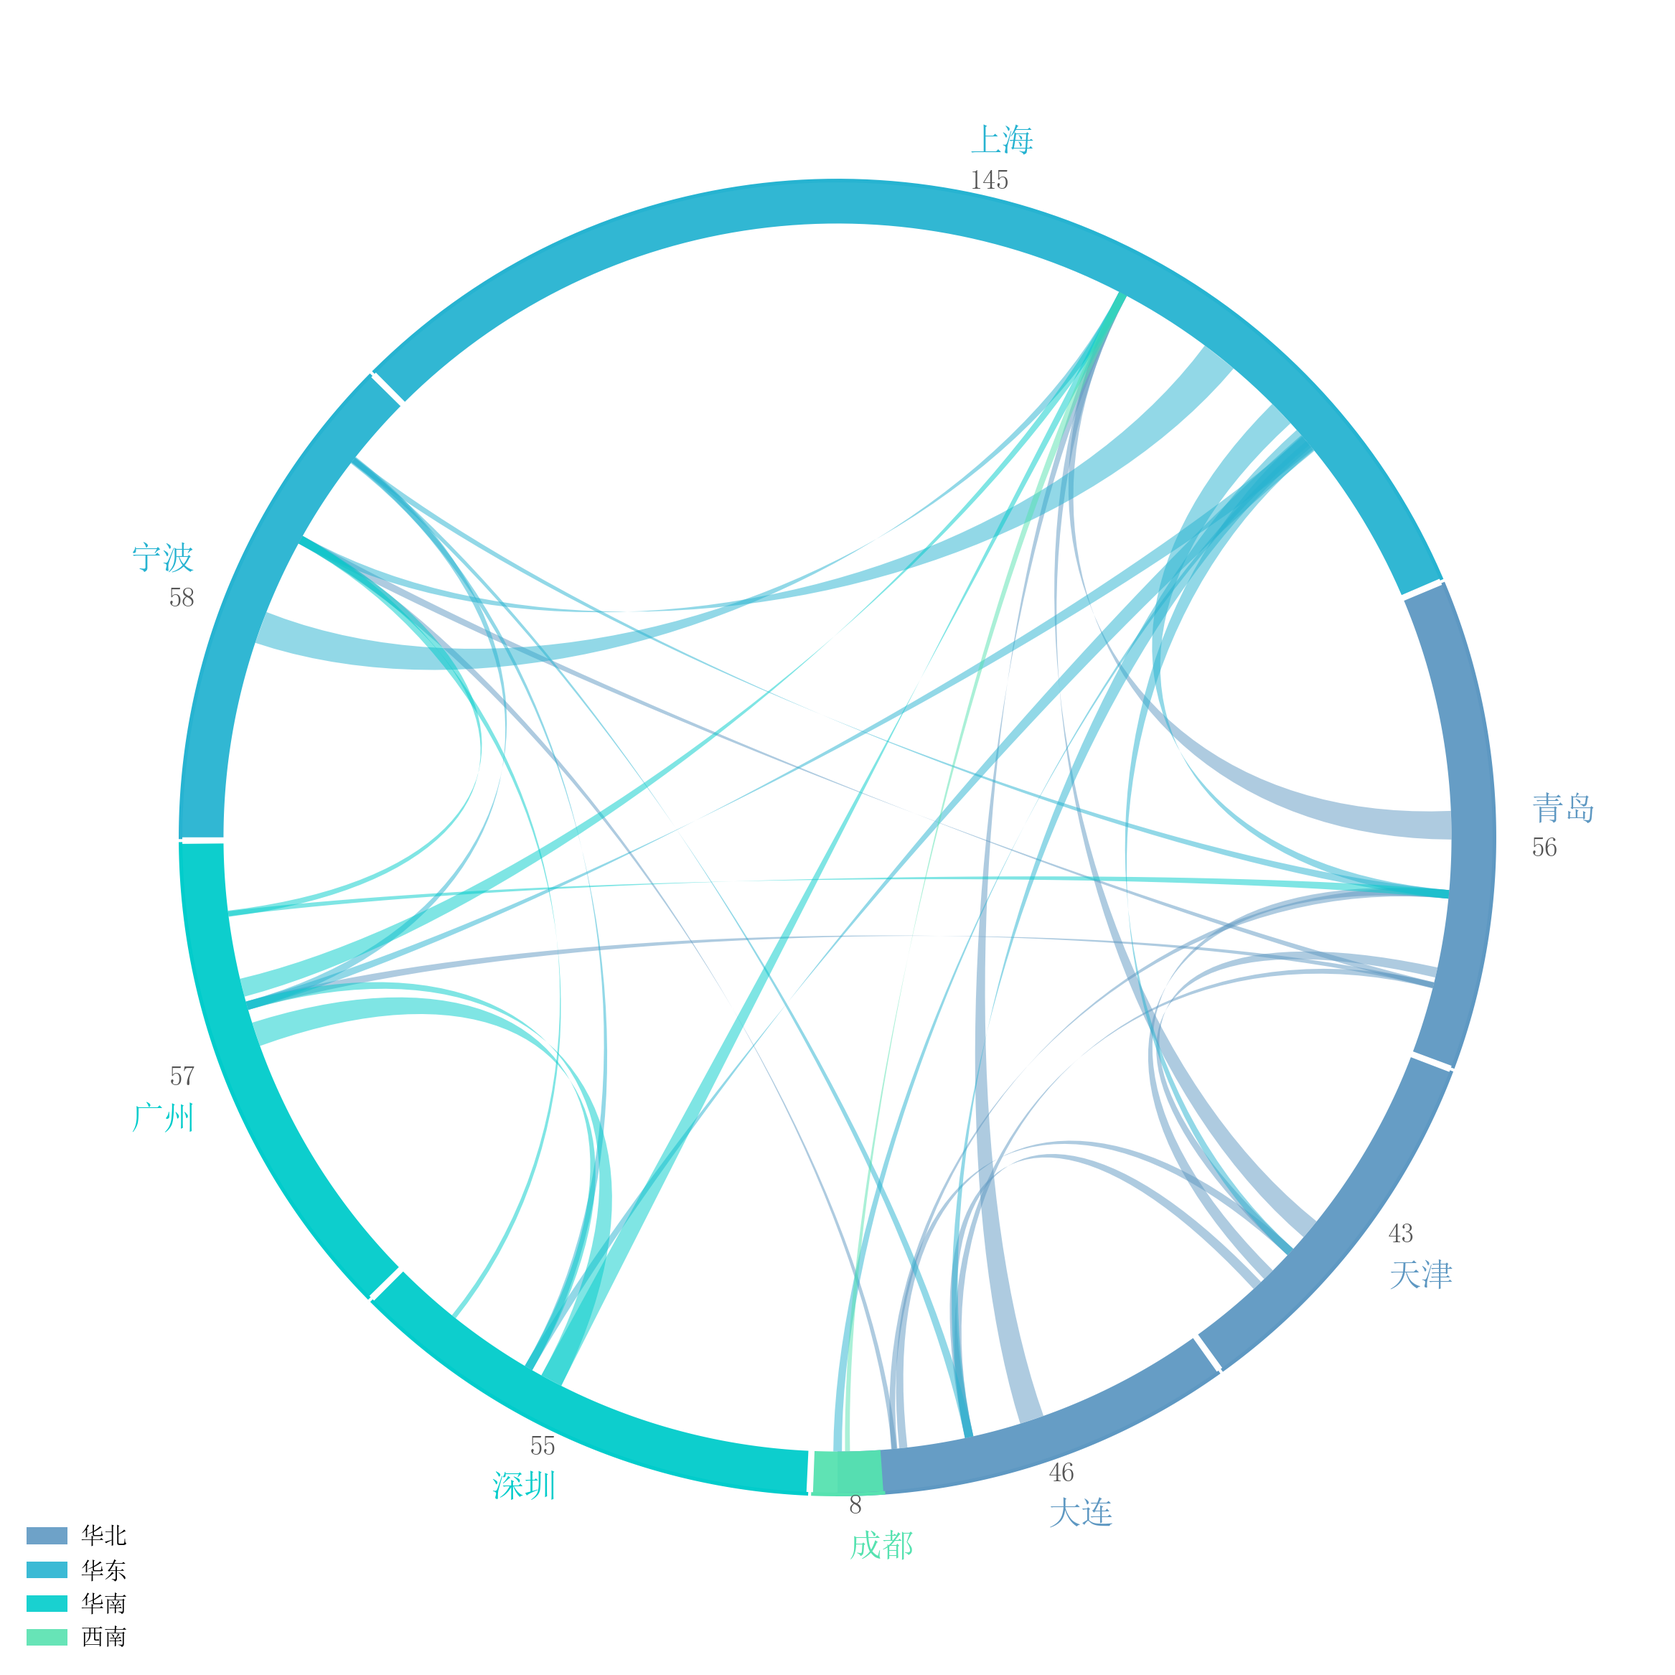
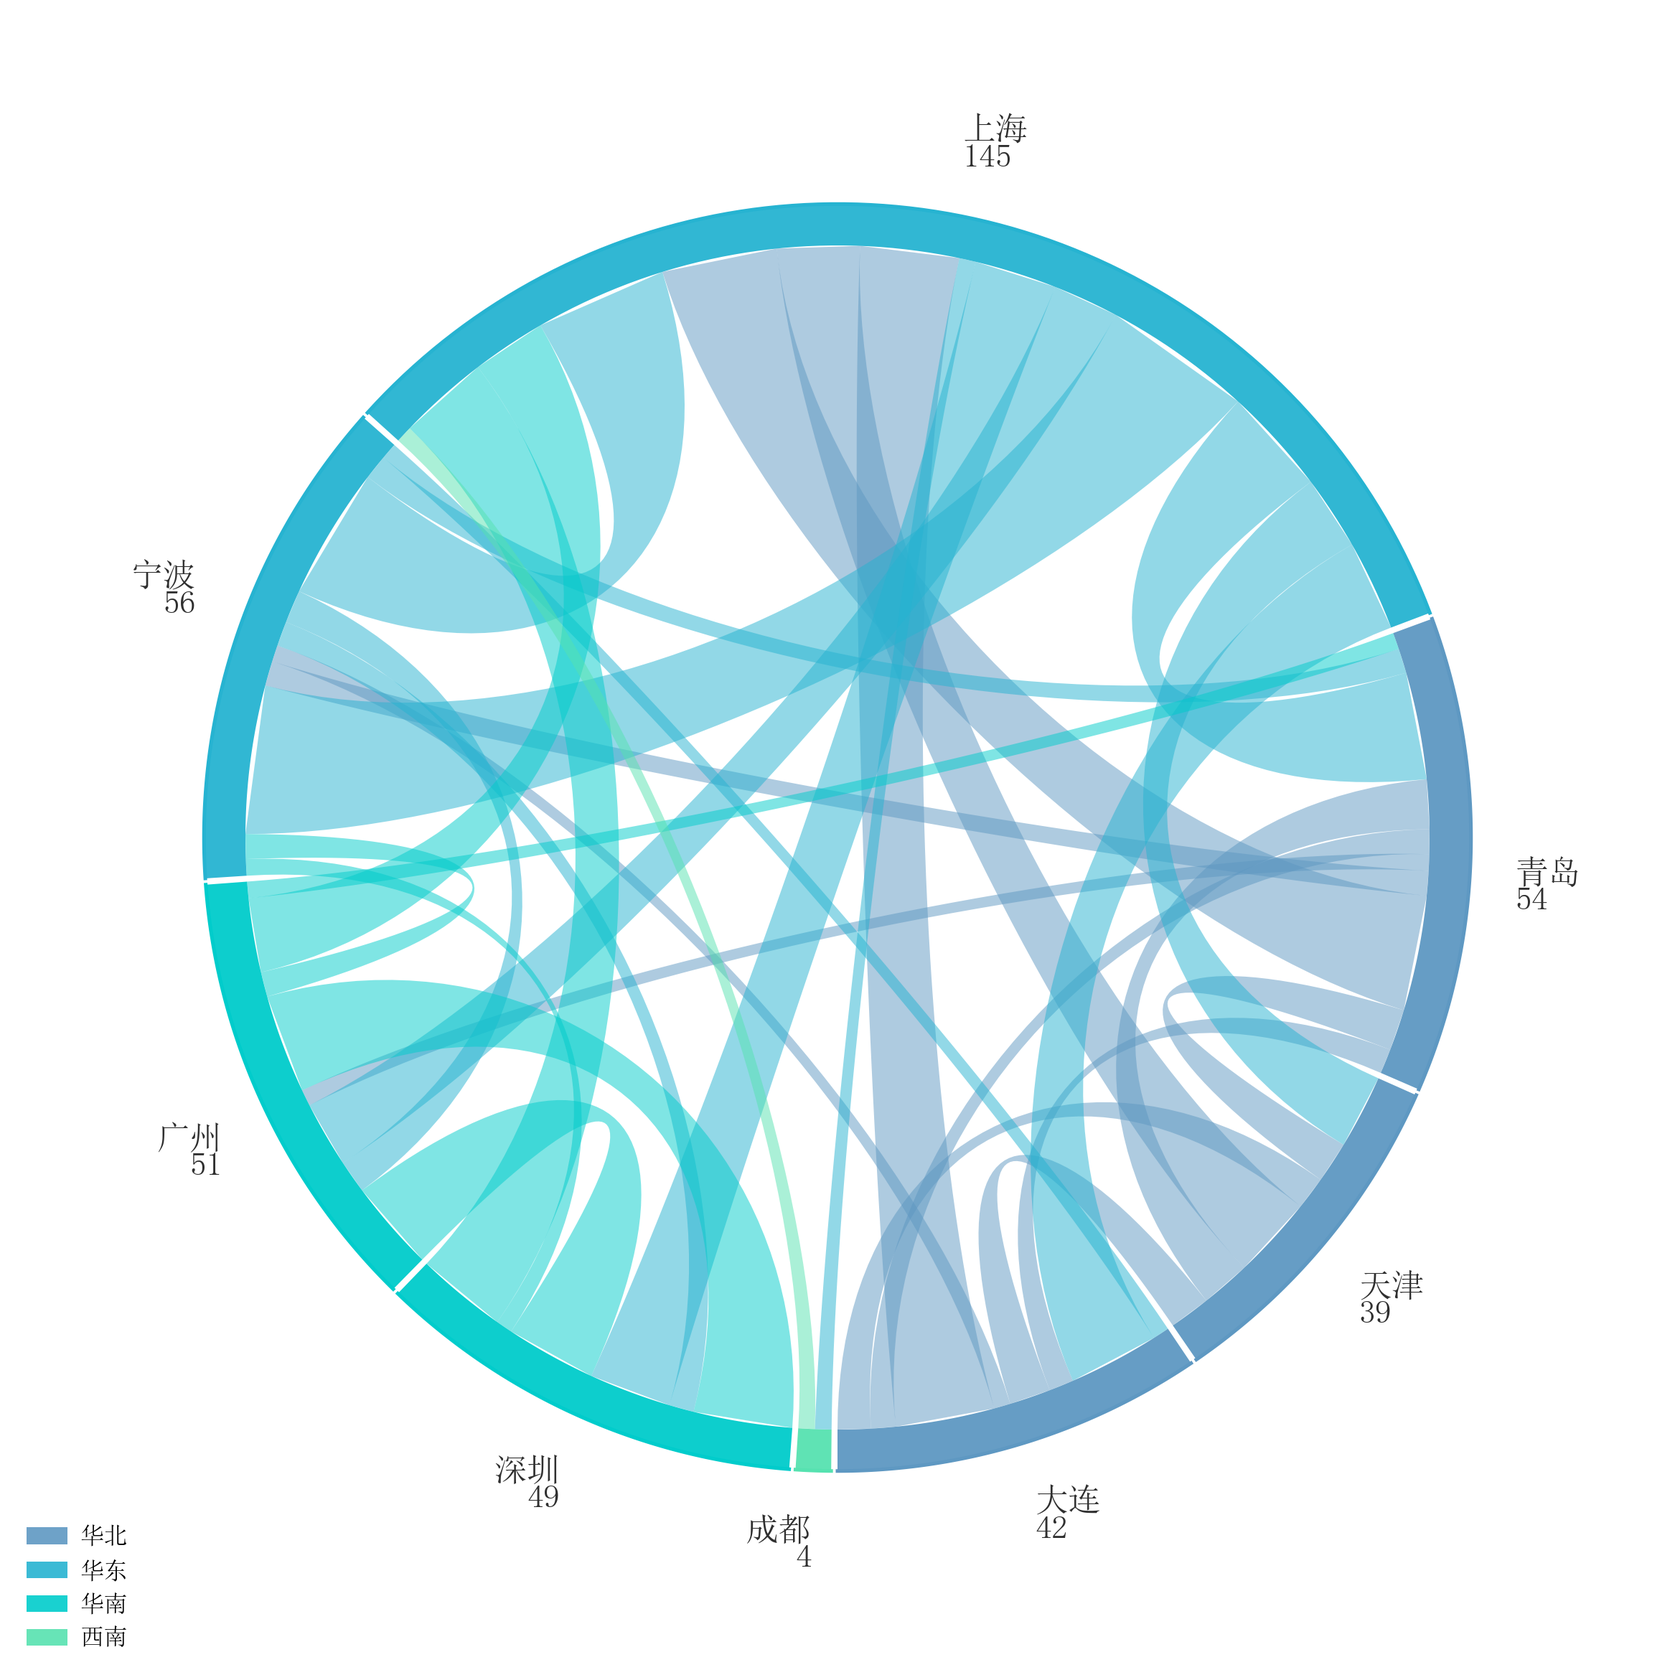
fix(chord): conserve visible flow geometry

diff --git a/sciplot/_plots/advanced.py b/sciplot/_plots/advanced.py
@@ -708,6 +708,84 @@ def plot_packed_bubble(
     return PlotResult(fig, ax, metadata={"venue": venue, "palette": palette})
 
 
+def _compute_chord_geometry(
+    matrix: np.ndarray,
+    min_flow: float,
+    gap: float,
+) -> Tuple[
+    np.ndarray,
+    np.ndarray,
+    np.ndarray,
+    np.ndarray,
+    Dict[Tuple[int, int], Tuple[float, float]],
+    Dict[Tuple[int, int], Tuple[float, float]],
+]:
+    """计算守恒的 Chord 弧段与有向流槽位。"""
+    visible = np.asarray(matrix, dtype=float).copy()
+    np.fill_diagonal(visible, 0.0)
+    visible[visible < min_flow] = 0.0
+
+    n = visible.shape[0]
+    total_gap = gap * n
+    if total_gap >= 2 * np.pi:
+        raise ValueError(
+            "gap 过大：所有节点间隙之和必须小于 2π，"
+            f"当前 n*gap={total_gap:.3f}"
+        )
+
+    out_totals = visible.sum(axis=1)
+    in_totals = visible.sum(axis=0)
+    totals = out_totals + in_totals
+    total_flow = float(totals.sum())
+    if total_flow <= 0:
+        raise ValueError("matrix 总流量为零或 min_flow 过滤后无可见流量，无法绘制弦图")
+
+    available_angle = 2 * np.pi - total_gap
+    arc_lengths = totals / total_flow * available_angle
+    arc_starts = np.empty(n, dtype=float)
+    arc_ends = np.empty(n, dtype=float)
+    angle = -np.pi / 2
+    for i in range(n):
+        arc_starts[i] = angle
+        arc_ends[i] = angle + float(arc_lengths[i])
+        angle = arc_ends[i] + gap
+
+    # 每个节点的弧段按“出流槽在前、入流槽在后”完整切分。
+    # 同一条有向流在源端和目标端都占与 flow 成比例的真实角宽。
+    scales = np.divide(
+        arc_lengths,
+        totals,
+        out=np.zeros_like(arc_lengths),
+        where=totals > 0,
+    )
+    source_slots: Dict[Tuple[int, int], Tuple[float, float]] = {}
+    target_slots: Dict[Tuple[int, int], Tuple[float, float]] = {}
+
+    source_cursor = arc_starts.copy()
+    for i in range(n):
+        for j in range(n):
+            flow = float(visible[i, j])
+            if flow <= 0:
+                continue
+            start = float(source_cursor[i])
+            end = start + flow * float(scales[i])
+            source_slots[(i, j)] = (start, end)
+            source_cursor[i] = end
+
+    target_cursor = arc_starts + out_totals * scales
+    for j in range(n):
+        for i in range(n):
+            flow = float(visible[i, j])
+            if flow <= 0:
+                continue
+            start = float(target_cursor[j])
+            end = start + flow * float(scales[j])
+            target_slots[(i, j)] = (start, end)
+            target_cursor[j] = end
+
+    return visible, totals, arc_starts, arc_ends, source_slots, target_slots
+
+
 def plot_chord(
     matrix: np.ndarray,
     labels: Optional[List[str]] = None,
@@ -726,19 +804,19 @@ def plot_chord(
     """
     绘制弦图（Chord Diagram，节点间流量/共现关系）
 
-    节点沿圆周排列，弧长编码节点总流量；节点间弦（渐变宽度多边形）
-    宽度编码流量、颜色取自源节点，源端宽而目标端收窄，
-    适合展示转移矩阵、共现关系、资源流向。
+    节点沿圆周排列，弧长编码过滤后的可见总流量；节点间弦在源端与目标端
+    都按真实流量占用对应弧段槽位，颜色取自源节点。适合展示转移矩阵、
+    共现关系、资源流向。
 
     参数:
         matrix     : 流量/共现矩阵 (n, n)，要求非负
         labels     : 节点标签（等长）；None 则用序号
         width      : 外圈弧宽（占单位半径比例），默认 0.07
-        gap        : 弧段间最小间隙（弧度），默认 0.01
+        gap        : 每个节点弧段后的固定间隙（弧度），默认 0.01
         alpha      : 弦透明度
-        min_flow   : 最小流量阈值，低于该值的弦不绘制（过滤噪声）
+        min_flow   : 最小流量阈值；低于该值的流从弦、外圈总量和显示数值中一并过滤
         color_by   : 节点分类标签（等长）；提供时按类别着色并生成图例
-        show_values: 是否在弧外显示各节点总量
+        show_values: 是否在弧外显示各节点过滤后的可见总量
 
     示例:
         >>> # 城市间迁移流量（按区域分组着色）
@@ -769,8 +847,10 @@ def plot_chord(
         labels = [str(i + 1) for i in range(n)]
     if not 0 < width < 1:
         raise ValueError(f"width 必须在 (0, 1) 范围内，实际值: {width!r}")
-    if min_flow < 0:
+    if not np.isfinite(min_flow) or min_flow < 0:
         raise ValueError(f"min_flow 必须为非负数，实际值: {min_flow!r}")
+    if not np.isfinite(gap) or gap < 0:
+        raise ValueError(f"gap 必须为非负有限数（弧度），实际值: {gap!r}")
     if color_by is not None:
         if len(color_by) != n:
             raise ValueError(
@@ -796,25 +876,14 @@ def plot_chord(
         node_colors = [cycle_color(colors, i) for i in range(n)]
         categorical_legend = None
 
-    # 节点总流量（行 + 列）
-    totals = mat.sum(axis=1) + mat.sum(axis=0)
-    total_flow = float(totals.sum())
-    if total_flow <= 0:
-        raise ValueError("matrix 总流量为零，无法绘制弦图")
-
-    # 弧段角度分配（从 -90° 顺时针）
-    arc_starts: List[float] = []
-    arc_ends: List[float] = []
-    angle = -np.pi / 2
-    for i in range(n):
-        frac = float(totals[i]) / total_flow
-        arc_len = frac * 2 * np.pi
-        # 预留 gap
-        if i > 0:
-            angle += gap
-        arc_starts.append(angle)
-        arc_ends.append(angle + arc_len)
-        angle += arc_len
+    (
+        visible,
+        totals,
+        arc_starts,
+        arc_ends,
+        source_slots,
+        target_slots,
+    ) = _compute_chord_geometry(mat, min_flow=min_flow, gap=gap)
 
     # ── 外圈弧段 ──
     for i in range(n):
@@ -829,11 +898,7 @@ def plot_chord(
         ax.plot(r_out * np.cos(seg), r_out * np.sin(seg),
                 color=color, linewidth=1.2)
 
-    # ── 弦（渐变宽度多边形：源端宽编码流量，目标端收窄） ──
-    max_flow = float(mat.max()) if mat.size else 1.0
-    if max_flow <= 0:
-        max_flow = 1.0
-
+    # ── 弦：源端与目标端均按真实可见流量占用弧段槽位 ──
     def _bezier_curve(
         p0: Tuple[float, float], p3: Tuple[float, float], n_pts: int = 48
     ) -> Tuple[np.ndarray, np.ndarray]:
@@ -848,21 +913,17 @@ def plot_chord(
         return bx, by
 
     for i in range(n):
-        row_total = float(mat[i].sum())
         for j in range(n):
-            flow = float(mat[i, j])
-            if flow <= 0 or i == j or flow < min_flow:
+            flow = float(visible[i, j])
+            if flow <= 0:
                 continue
-            # 源端角度：按该流量占 i 行总出量的比例定位在弧段内
-            src_frac = flow / row_total if row_total > 0 else 0.5
-            src_theta = arc_starts[i] + (arc_ends[i] - arc_starts[i]) * min(0.85, max(0.15, src_frac))
-            tgt_theta = arc_starts[j] + (arc_ends[j] - arc_starts[j]) * 0.35
-            # 源端宽度 ∝ 流量，目标端固定窄宽（视觉层次）
-            half_w = max(0.004, flow / max_flow * 0.03)
-            p0a = polar_to_cart(src_theta - half_w, 1.0)
-            p0b = polar_to_cart(src_theta + half_w, 1.0)
-            p3a = polar_to_cart(tgt_theta - 0.007, 1.0)
-            p3b = polar_to_cart(tgt_theta + 0.007, 1.0)
+            src_start, src_end = source_slots[(i, j)]
+            tgt_start, tgt_end = target_slots[(i, j)]
+            # 交叉连接两端边界，可在圆内形成无扭结的带状流。
+            p0a = polar_to_cart(src_start, 1.0)
+            p0b = polar_to_cart(src_end, 1.0)
+            p3a = polar_to_cart(tgt_end, 1.0)
+            p3b = polar_to_cart(tgt_start, 1.0)
             bx_top, by_top = _bezier_curve(p0a, p3a)
             bx_bot, by_bot = _bezier_curve(p0b, p3b)
             poly_x = np.concatenate([bx_top, bx_bot[::-1]])
@@ -871,19 +932,22 @@ def plot_chord(
                     edgecolor="none", zorder=2)
 
     # ── 标签与数值 ──
-    label_r = 1.0 + width + 0.06
-    fontsize = max(7, plt.rcParams.get("font.size", 9) - 1)
+    label_r = 1.0 + width + 0.075
+    fontsize = max(7.0, float(plt.rcParams.get("font.size", 9)) - 1.0)
     for i in range(n):
         mid = (arc_starts[i] + arc_ends[i]) / 2
         x, y = polar_to_cart(mid, label_r)
         ha = "left" if np.cos(mid) >= 0 else "right"
         va = "bottom" if np.sin(mid) >= 0 else "top"
-        ax.text(x, y, labels[i], ha=ha, va=va, fontsize=fontsize,
-                color=node_colors[i], fontweight="bold")
-        if show_values:
-            ax.text(x, y - (0.06 if np.sin(mid) >= 0 else -0.06),
-                    f"{totals[i]:.0f}", ha=ha, va=va,
-                    fontsize=max(6, fontsize - 2), color="#555555")
+        label_text = (
+            f"{labels[i]}\n{totals[i]:.0f}"
+            if show_values
+            else str(labels[i])
+        )
+        ax.text(
+            x, y, label_text, ha=ha, va=va, fontsize=fontsize,
+            color="#2F2F2F", fontweight="bold", linespacing=0.95,
+        )
 
     # ── 分类图例 ──
     if categorical_legend is not None:
@@ -895,8 +959,8 @@ def plot_chord(
         ]
         ax.legend(handles=handles, loc="lower left", frameon=False, fontsize=8)
 
-    ax.set_xlim(-1.35, 1.35)
-    ax.set_ylim(-1.35, 1.35)
+    ax.set_xlim(-1.40, 1.40)
+    ax.set_ylim(-1.40, 1.40)
     ax.set_aspect("equal")
     ax.set_axis_off()
     if title:

diff --git a/tests/unit/test_chord.py b/tests/unit/test_chord.py
@@ -8,6 +8,7 @@ import numpy as np
 import pytest
 
 import sciplot as sp
+from sciplot._plots.advanced import _compute_chord_geometry
 
 
 @pytest.fixture()
@@ -43,8 +44,8 @@ def test_chord_labels(chord_matrix, cleanup_figures):
 def test_chord_show_values(chord_matrix, cleanup_figures):
     result = sp.plot_chord(chord_matrix, labels=["A", "B", "C", "D"], show_values=True)
     texts = [t.get_text() for t in result.ax.texts]
-    # 节点 A 双向总量 = (12+5+3) * 2 = 40
-    assert "40" in texts
+    # 节点 A 双向总量 = (12+5+3) * 2 = 40；数值与标签组成稳定双行块。
+    assert "A\n40" in texts
 
 
 def test_chord_auto_labels(chord_matrix, cleanup_figures):
@@ -104,6 +105,69 @@ def test_chord_min_flow_filter(chord_matrix, cleanup_figures):
 def test_chord_bad_min_flow_raises(chord_matrix, cleanup_figures):
     with pytest.raises(ValueError, match="min_flow"):
         sp.plot_chord(chord_matrix, min_flow=-1.0)
+    with pytest.raises(ValueError, match="min_flow"):
+        sp.plot_chord(chord_matrix, min_flow=np.nan)
+
+
+def test_chord_bad_gap_raises(chord_matrix, cleanup_figures):
+    with pytest.raises(ValueError, match="gap"):
+        sp.plot_chord(chord_matrix, gap=-0.1)
+    with pytest.raises(ValueError, match="gap"):
+        sp.plot_chord(chord_matrix, gap=np.inf)
+    with pytest.raises(ValueError, match="gap 过大"):
+        sp.plot_chord(chord_matrix, gap=np.pi)
+
+
+def test_chord_geometry_closes_exactly_one_circle(chord_matrix):
+    """节点弧段 + 全部 gap 必须恰好占一圈，不能越过 2π 再重叠。"""
+    gap = 0.03
+    _, _, starts, ends, _, _ = _compute_chord_geometry(
+        chord_matrix, min_flow=0.0, gap=gap
+    )
+    arc_total = float(np.sum(ends - starts))
+    assert arc_total + len(starts) * gap == pytest.approx(2 * np.pi)
+    assert ends[-1] + gap == pytest.approx(starts[0] + 2 * np.pi)
+
+
+def test_chord_flow_slots_conserve_visible_flow(chord_matrix):
+    """过滤后的每条流在源/目标两端都必须占用与其数值成比例的真实槽位。"""
+    visible, totals, starts, ends, source_slots, target_slots = _compute_chord_geometry(
+        chord_matrix, min_flow=6.0, gap=0.02
+    )
+    spans = ends - starts
+
+    for node in range(len(totals)):
+        if totals[node] <= 0:
+            continue
+        scale = spans[node] / totals[node]
+        source_width = sum(
+            b - a for (i, _), (a, b) in source_slots.items() if i == node
+        )
+        target_width = sum(
+            b - a for (_, j), (a, b) in target_slots.items() if j == node
+        )
+        assert source_width + target_width == pytest.approx(spans[node])
+
+        for (i, j), (a, b) in source_slots.items():
+            if i == node:
+                assert b - a == pytest.approx(float(visible[i, j]) * scale)
+        for (i, j), (a, b) in target_slots.items():
+            if j == node:
+                assert b - a == pytest.approx(float(visible[i, j]) * scale)
+
+
+def test_chord_min_flow_updates_visible_totals(chord_matrix, cleanup_figures):
+    """show_values 应与实际绘制的过滤后流量一致，而不是继续显示被过滤流。"""
+    result = sp.plot_chord(
+        chord_matrix,
+        labels=["A", "B", "C", "D"],
+        min_flow=10.0,
+        show_values=True,
+    )
+    texts = [t.get_text() for t in result.ax.texts]
+    # 仅 0↔1 的 12 保留，因此 A/B 可见双向总量均为 24，C/D 为 0。
+    assert "A\n24" in texts and "B\n24" in texts
+    assert "C\n0" in texts and "D\n0" in texts
 
 
 def test_chord_color_by_mismatch_raises(chord_matrix, cleanup_figures):

diff --git a/.claude/skills/sciplot/SKILL.md b/.claude/skills/sciplot/SKILL.md
@@ -5,7 +5,7 @@ description: >-
   统计图、多面板图、期刊投稿图，或需要优化现有 matplotlib 科研图时触发；也适用于
   “这些数据怎么可视化”“把图做得像顶刊”“提升论文图质量”等未指定图型的任务。
   优先使用项目内 sciplot API 完成静态科研可视化；明确要求交互式网页图、地图或动画时不触发。
-version: 2.0.2
+version: 2.0.3
 author: rippleshe
 user-invocable: true
 allowed-tools: "Read Write Edit Bash Glob Grep"
@@ -162,7 +162,7 @@ fig, axes = sp.figure_panels(2, 2, venue="nature", panel_labels=True)
 - **箱线/小提琴/雨云**：样本不大时尽量展示原始点；不要让小提琴形状掩盖 n 很小的事实。
 - **热力图**：色图必须匹配语义；相关矩阵优先以 0 为中心的发散色；标数字时保证对比度。
 - **雷达**：只用于少量同尺度维度；多组填充 alpha 要低，轮廓承担主要比较。
-- **Sankey/Alluvial**：流带宽度是真实量；颜色应跟随源/类别语义，流多时先过滤视觉噪音。
+- **Sankey/Alluvial/Chord**：流带宽度必须是真实量并在节点两端守恒；颜色应跟随源/类别语义，流多时先过滤视觉噪音。
 - **Treemap/Sunburst**：面积/角度承担数值，颜色用于层级或分组，不再额外编码无关变量。
 - **网络图**：先减少边噪音和标签密度，再谈配色；3D 标签要在最终视角投影后检查屏幕空间重叠，社区结构应该一眼可辨。
 - **3D**：只有数据本身存在第三空间维度或曲面结构时使用，普通分类比较不要 3D。

diff --git a/CHANGELOG.md b/CHANGELOG.md
@@ -33,6 +33,9 @@
 - 修复 `plot_network3d()` 将标签直接贴在 3D 节点中心导致透视投影后集中重叠的问题；
   现在先固定最终视角，再将 top-N 节点投影到屏幕平面并按 renderer bbox 避让，同时降低边线默认视觉权重，
   使节点、标签和社区层级在静态科研图中更清楚。
+- 修复 `plot_chord()` 的两处数据编码错误：节点弧长原先先占满 `2π` 再额外加入 `gap`，会使圆周超出一圈；
+  弦端点也未按累计流量分槽，多条流会挤在固定位置。现在基于 `min_flow` 过滤后的可见流严格扣除全部 gap，
+  并在源端/目标端按真实流量守恒切分弧段；`show_values=True` 同步显示过滤后的可见总量并使用稳定双行标签。
 
 ### Changed
 
@@ -46,8 +49,9 @@
 ### Tests
 
 - 新增辅助 Axes 审计、UpSet 元数据、Alluvial 闭合路径、出版样式基线、多类图表 palette 隔离，
-  Treemap 边框/字号、Sunburst 层级拓扑/环方向，以及 Packed Bubble / Volcano / Network3D 像素级文字布局回归测试。
-- 最新全量验证：`1569 passed`；Ruff 全绿；Mypy 对 33 个源码文件无错误；47 个 showcase 脚本全部重跑并目视检查 50 张输出图。
+  Treemap 边框/字号、Sunburst 层级拓扑/环方向、Packed Bubble / Volcano / Network3D 像素级文字布局，
+  以及 Chord 圆周闭合、流槽守恒与过滤后总量回归测试。
+- 最新全量验证：`1573 passed`；Ruff 全绿；Mypy 对 33 个源码文件无错误；47 个 showcase 脚本全部重跑并目视检查 50 张输出图。
 
 ---
 
